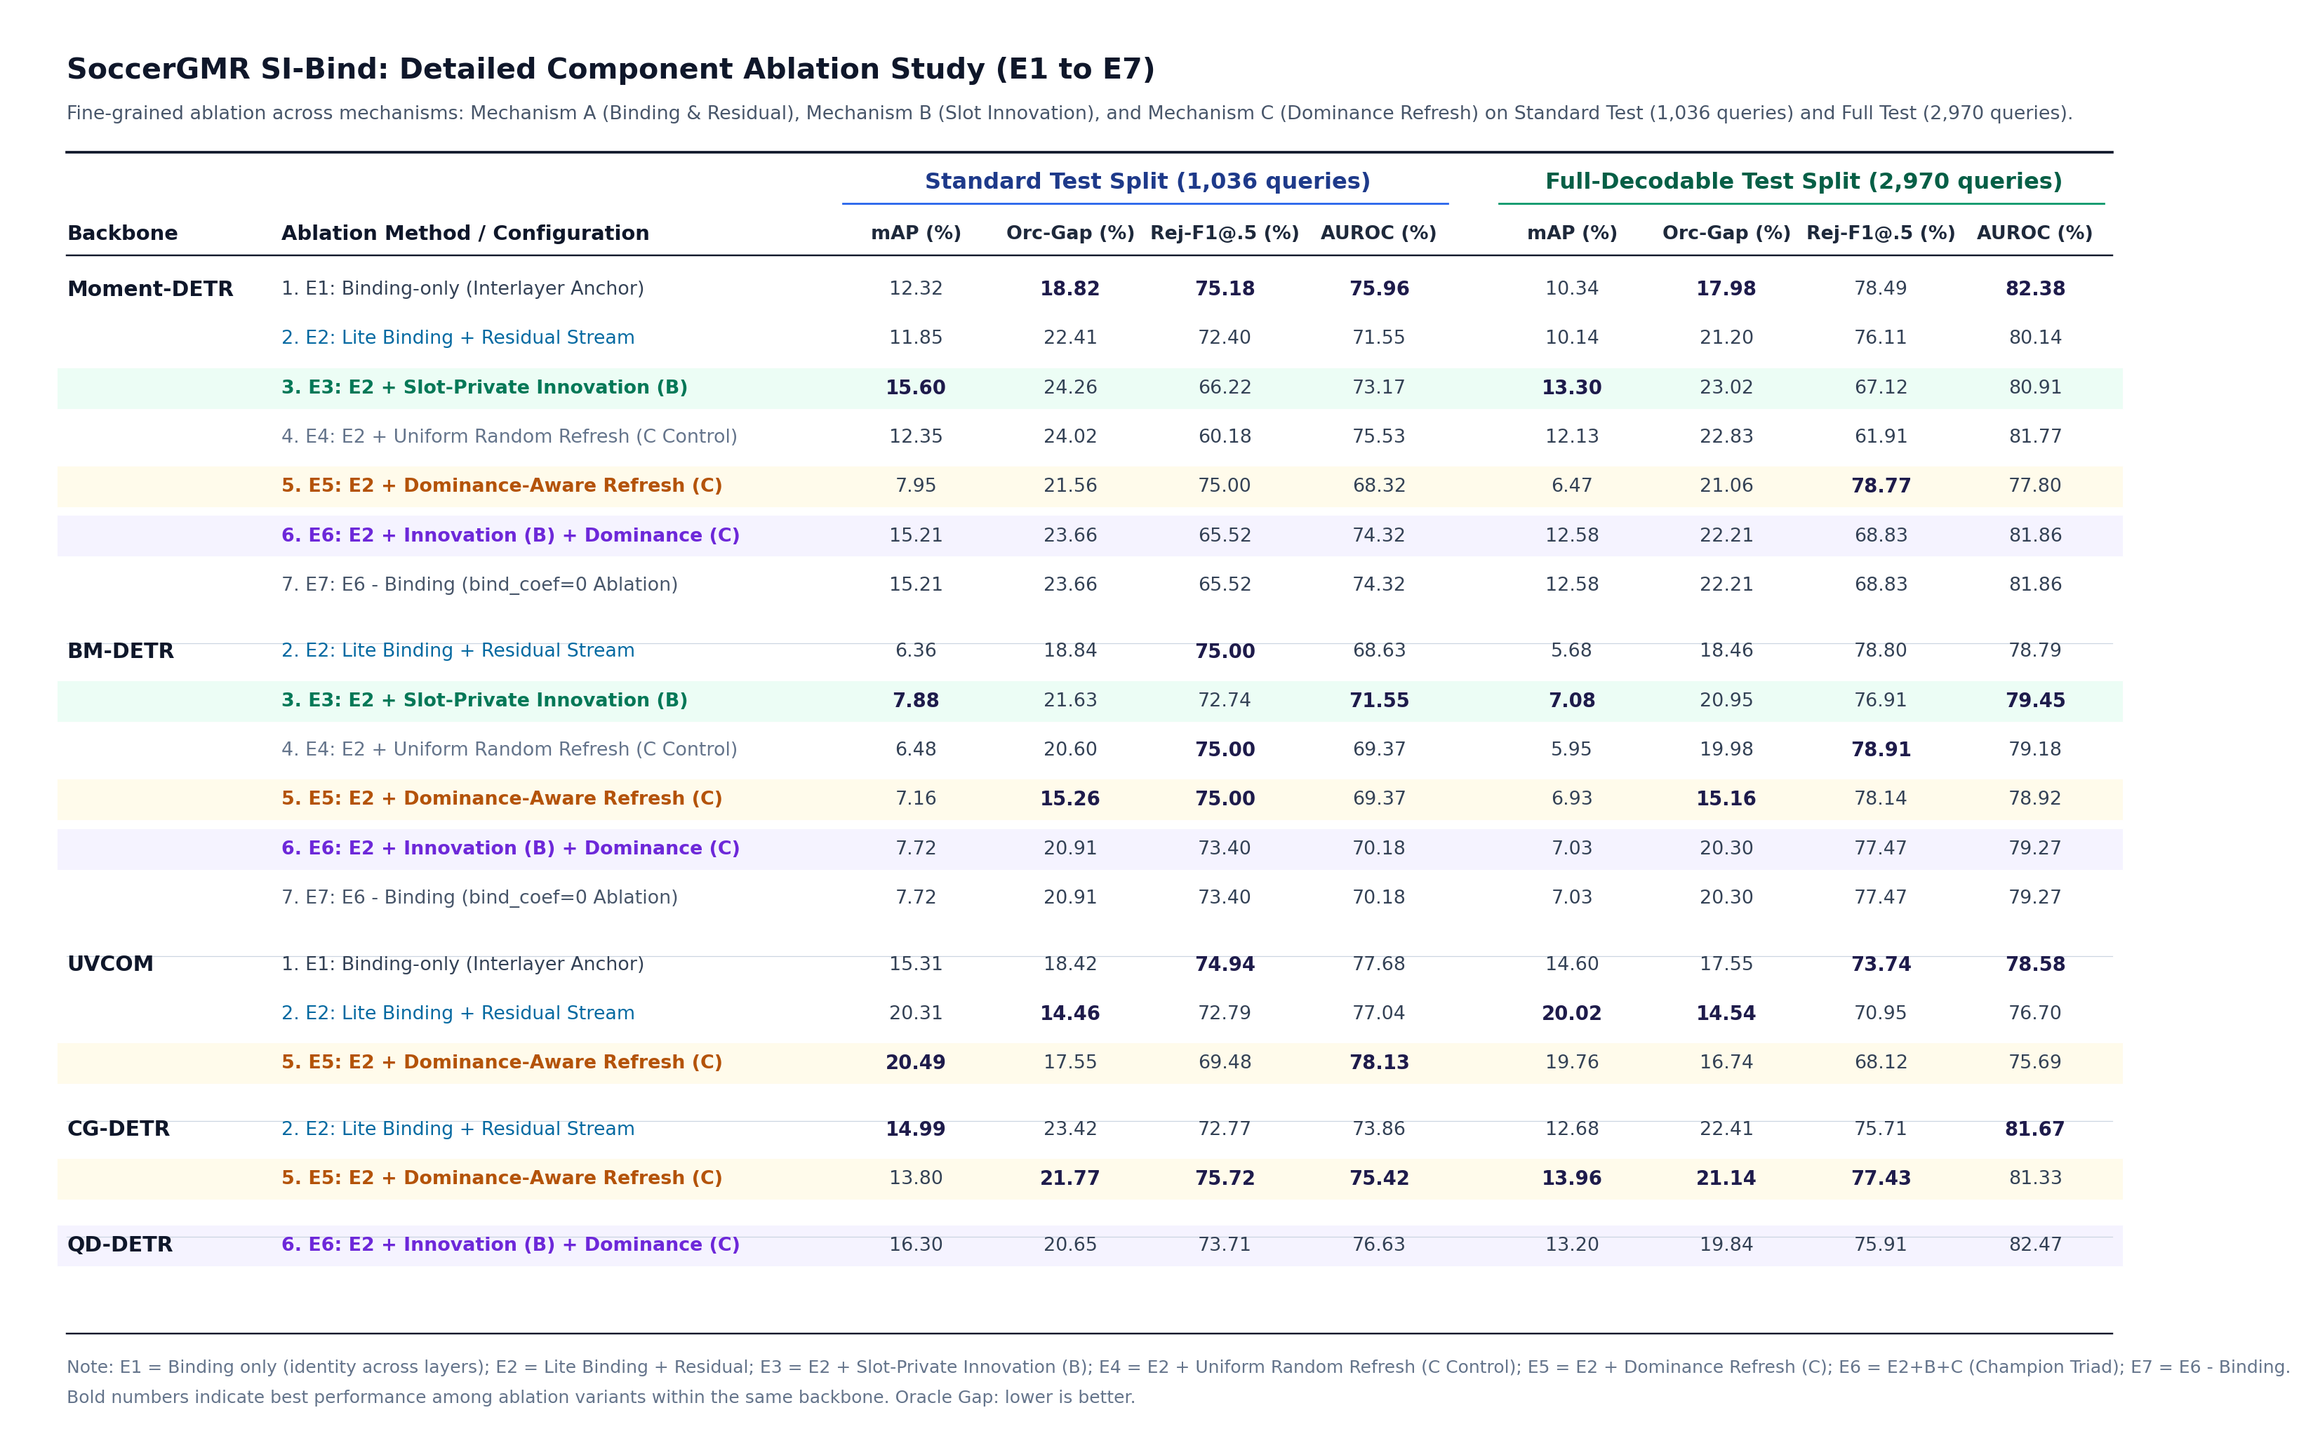
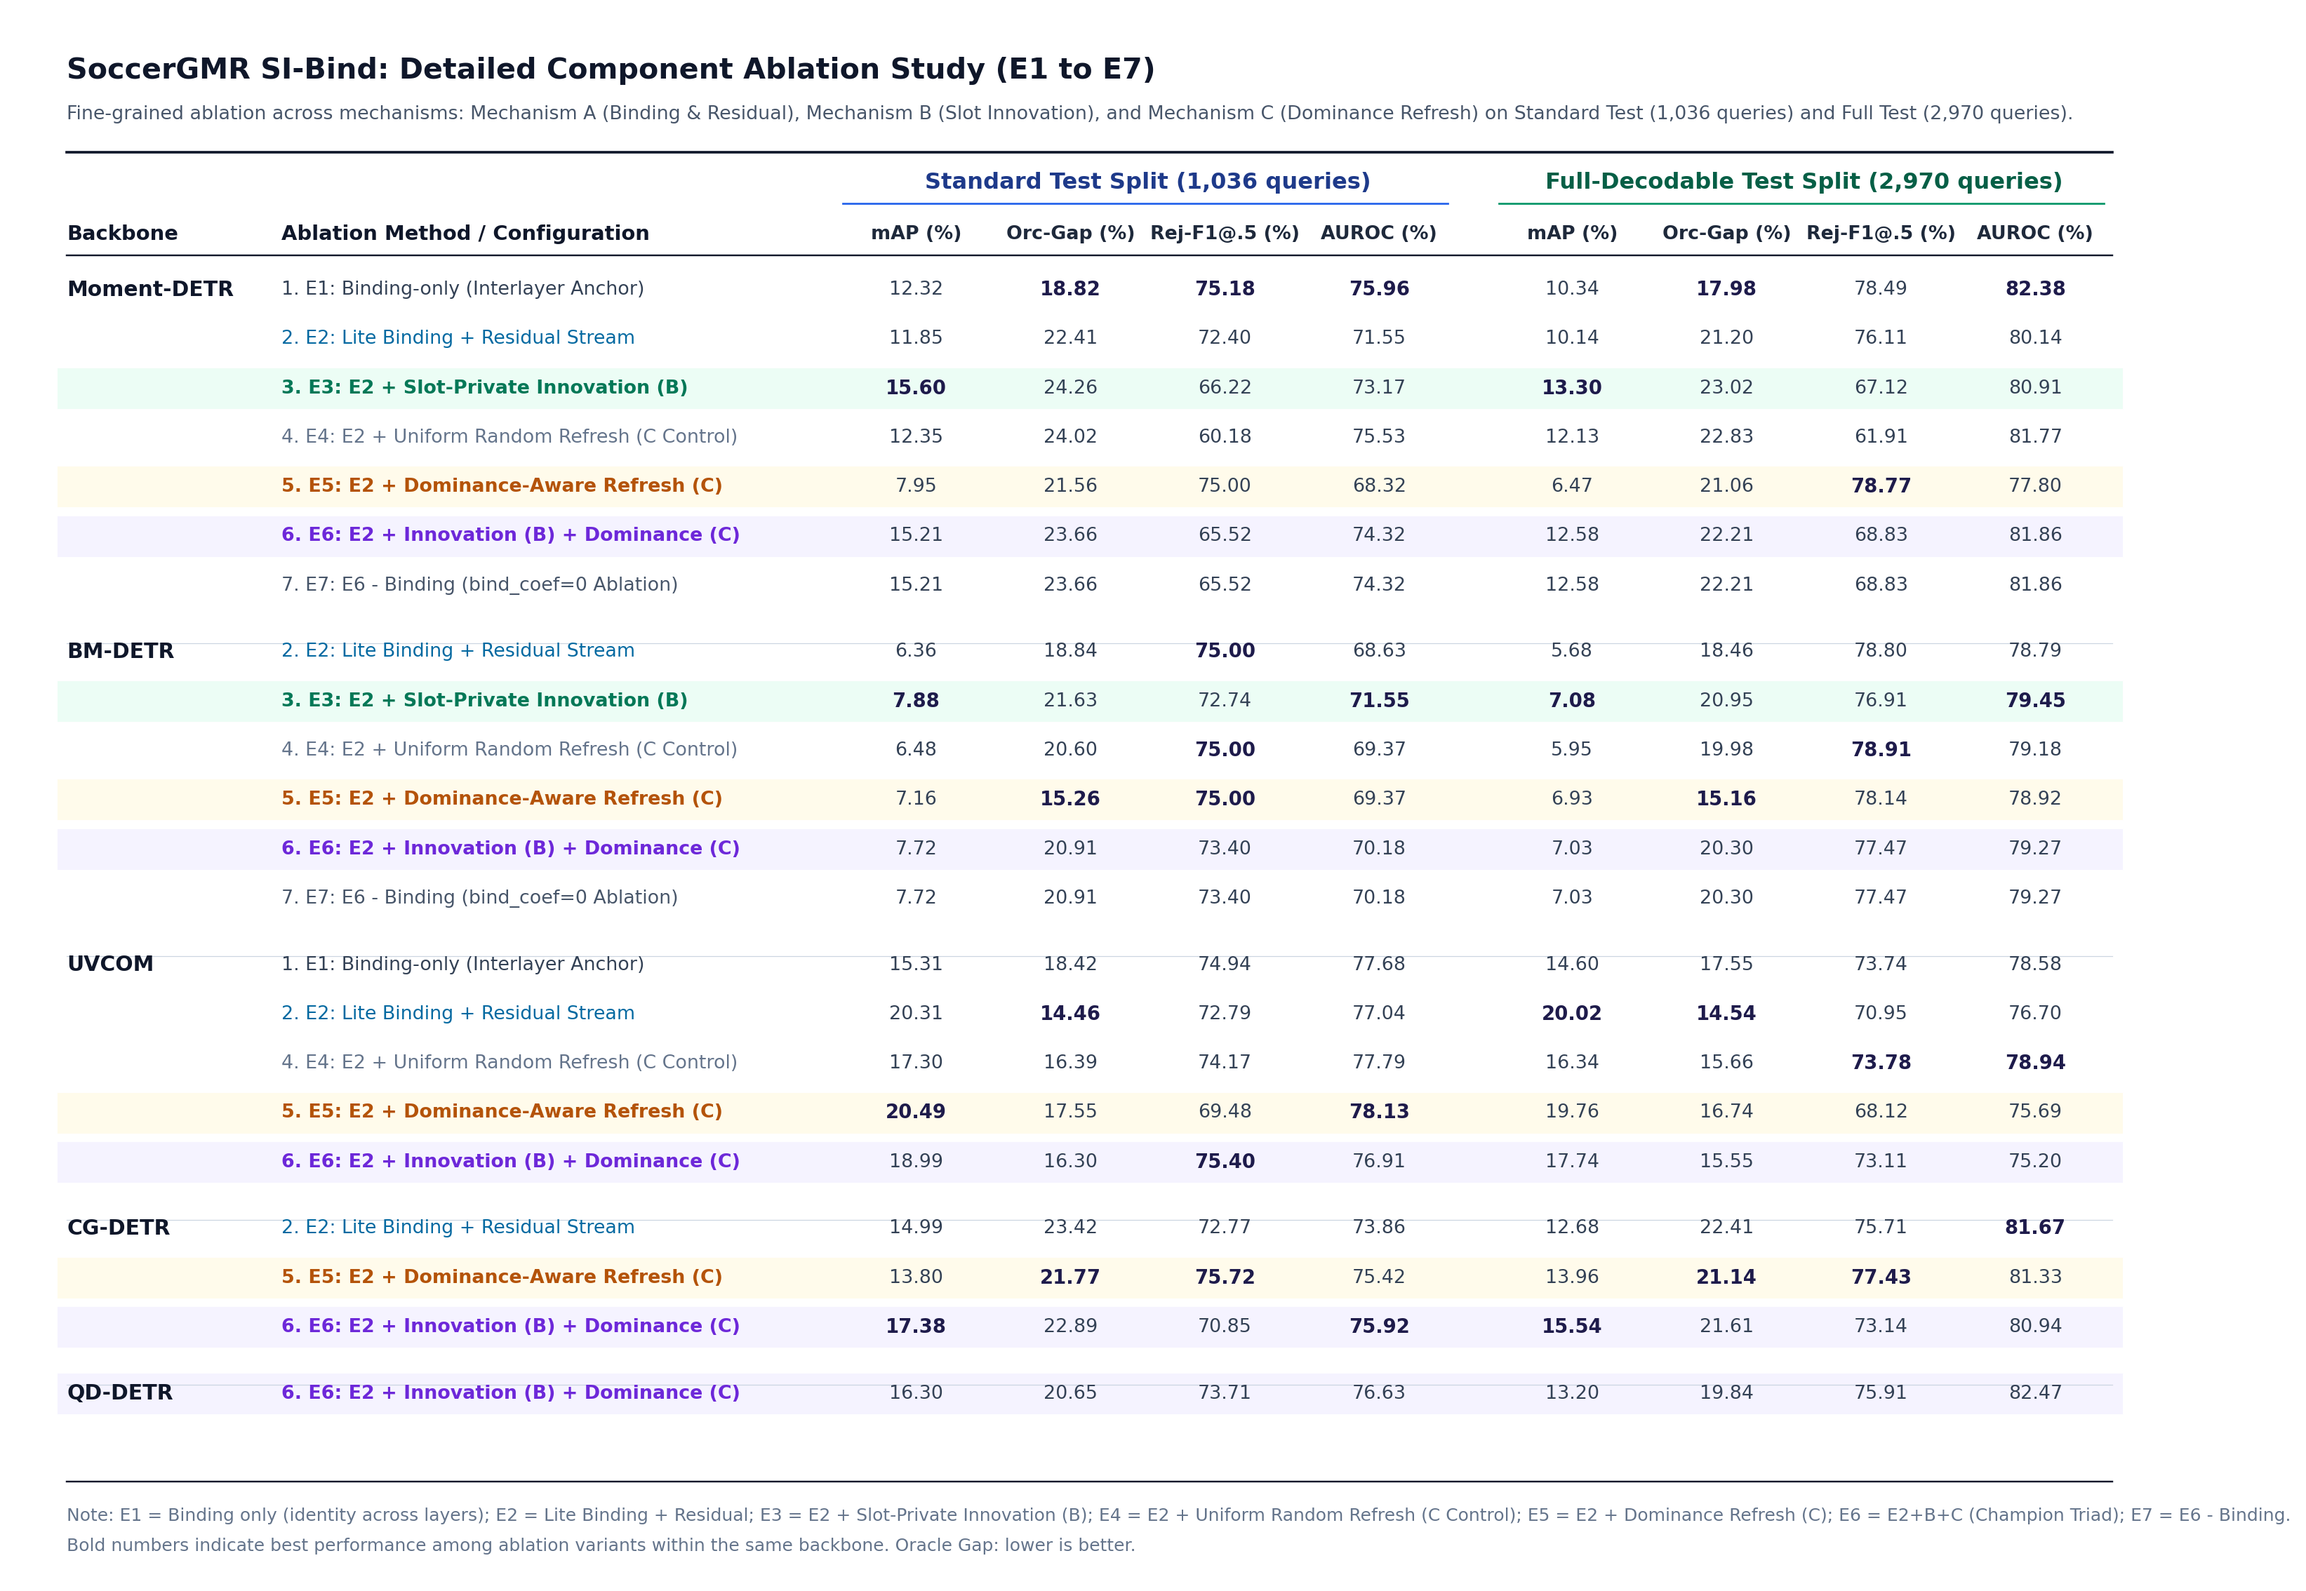
feat(ablation): update SI-Bind E1-E7 detailed ablation table with evaluated UVCOM-E4 metrics

diff --git a/scripts/generate_si_bind_variants_ablation_figure.py b/scripts/generate_si_bind_variants_ablation_figure.py
@@ -17,8 +17,8 @@ CURRENT_BRAIN = Path("/home/guoxiangyu/.gemini/antigravity-cli/brain/e32cc1be-00
 BACKBONES = [
     ("moment_detr", "Moment-DETR", ["E1", "E2", "E3", "E4", "E5", "E6", "E7"]),
     ("bm_detr", "BM-DETR", ["E2", "E3", "E4", "E5", "E6", "E7"]),
-    ("uvcom", "UVCOM", ["E1", "E2", "E5"]),
-    ("cg_detr", "CG-DETR", ["E2", "E5"]),
+    ("uvcom", "UVCOM", ["E1", "E2", "E4", "E5", "E6"]),
+    ("cg_detr", "CG-DETR", ["E2", "E5", "E6"]),
     ("qd_detr", "QD-DETR", ["E6"]),
 ]
 
